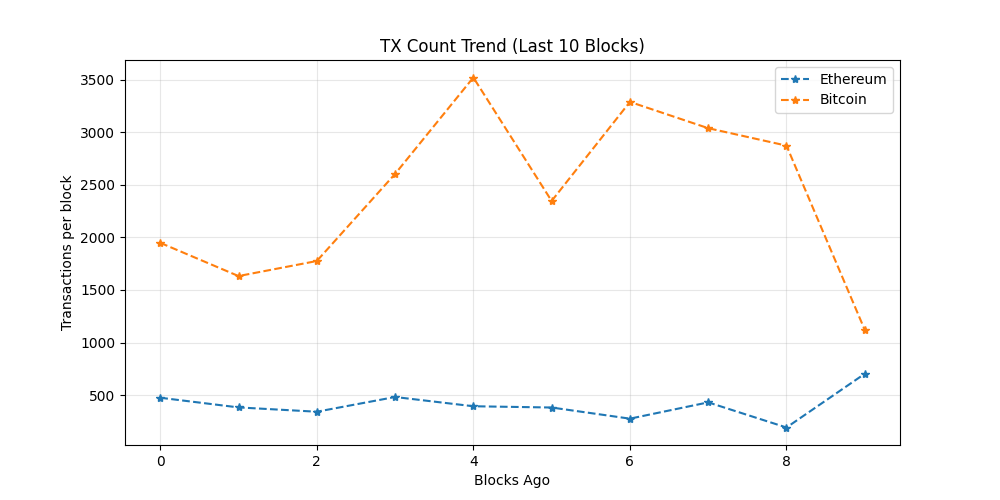
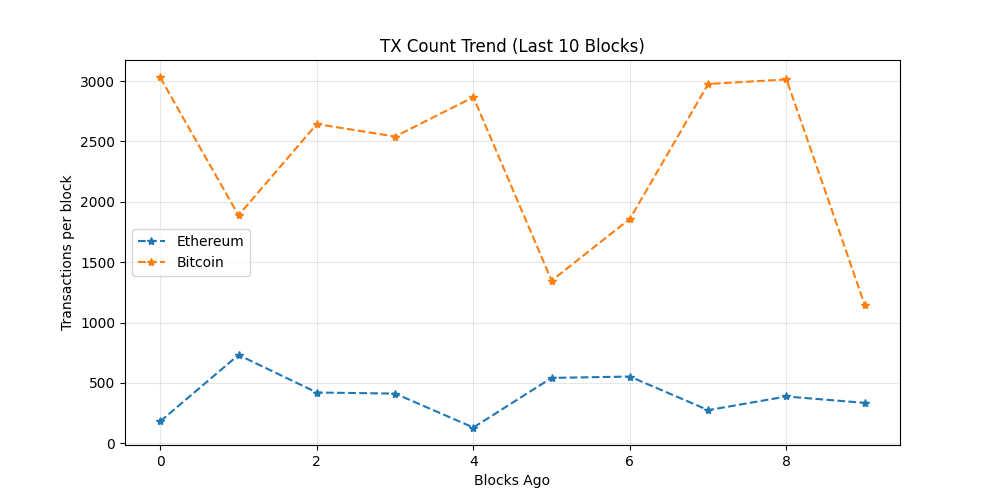
chore: update on-chain dashboard

diff --git a/README.md b/README.md
@@ -19,7 +19,7 @@ The README itself acts as the dashboard and is regenerated automatically on a 6 
 demonstrating a production-style, infrastructure-focused observability workflow rather
 than a traditional UI-driven approach.
 
-_Last updated: 2026-01-14 02:33 UTC_
+_Last updated: 2026-01-14 06:51 UTC_
 
 ## API Usage (GetBlock.io)
 - Calls used: **24**
@@ -27,8 +27,8 @@ _Last updated: 2026-01-14 02:33 UTC_
 ## Network Metrics
 | Chain | Block Height | TX Count | TPS (10 blk avg) | Block Util | Avg Fee |
 |------|-------------|----------|------------------|------------|---------|
-| Ethereum | 24229985 | 703 | 58.58 | 94.61% | 0.1 Gwei |
-| Bitcoin | 932193 | 1120 | 8.55 | 33.16% | N/A |
+| Ethereum | 24231264 | 334 | 27.83 | 45.99% | 0.0 Gwei |
+| Bitcoin | 932214 | 1146 | 3.06 | 34.06% | N/A |
 
 ## Visuals
 ### Transactions Trend
@@ -43,10 +43,11 @@ _Last updated: 2026-01-14 02:33 UTC_
 ## Whale Alerts (latest block)
 - Transaction hashes are truncated for readability.
 - Full hashes are available in `dashboards/metrics.json`
-- Bitcoin | 174.75 BTC | `085cf49c78df…`
-- Bitcoin | 174.71 BTC | `344f53821cd5…`
-- Bitcoin | 174.71 BTC | `1fd2b82a4b3e…`
-- Bitcoin | 4526.39 BTC | `70d2a29fe8c0…`
+- Bitcoin | 135.17 BTC | `1c18dd9b7727…`
+- Bitcoin | 162.97 BTC | `0e5bb38e0dc9…`
+- Bitcoin | 162.93 BTC | `c617b2c606ba…`
+- Bitcoin | 162.9 BTC | `3eb8846761f7…`
+- Bitcoin | 200.01 BTC | `c5799b88249e…`
 
 ## Run locally
 
